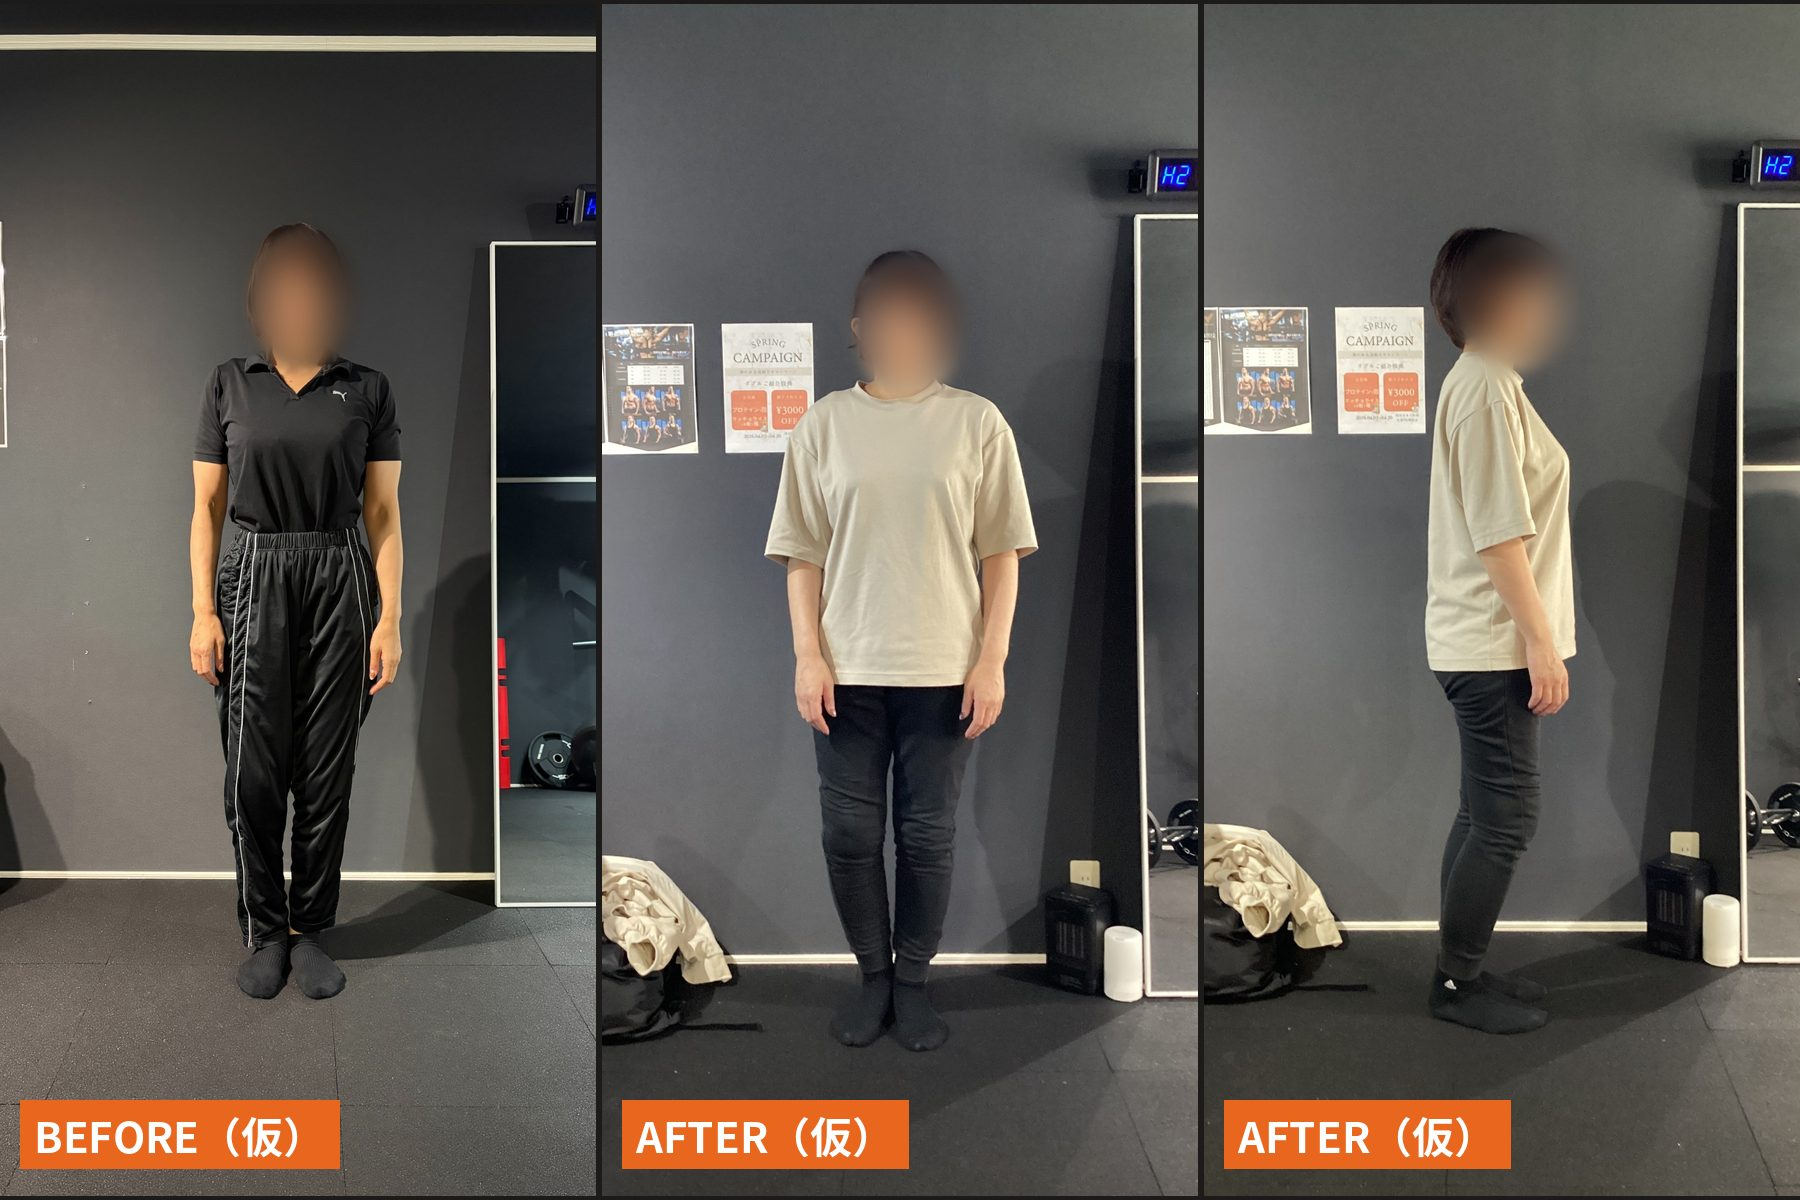
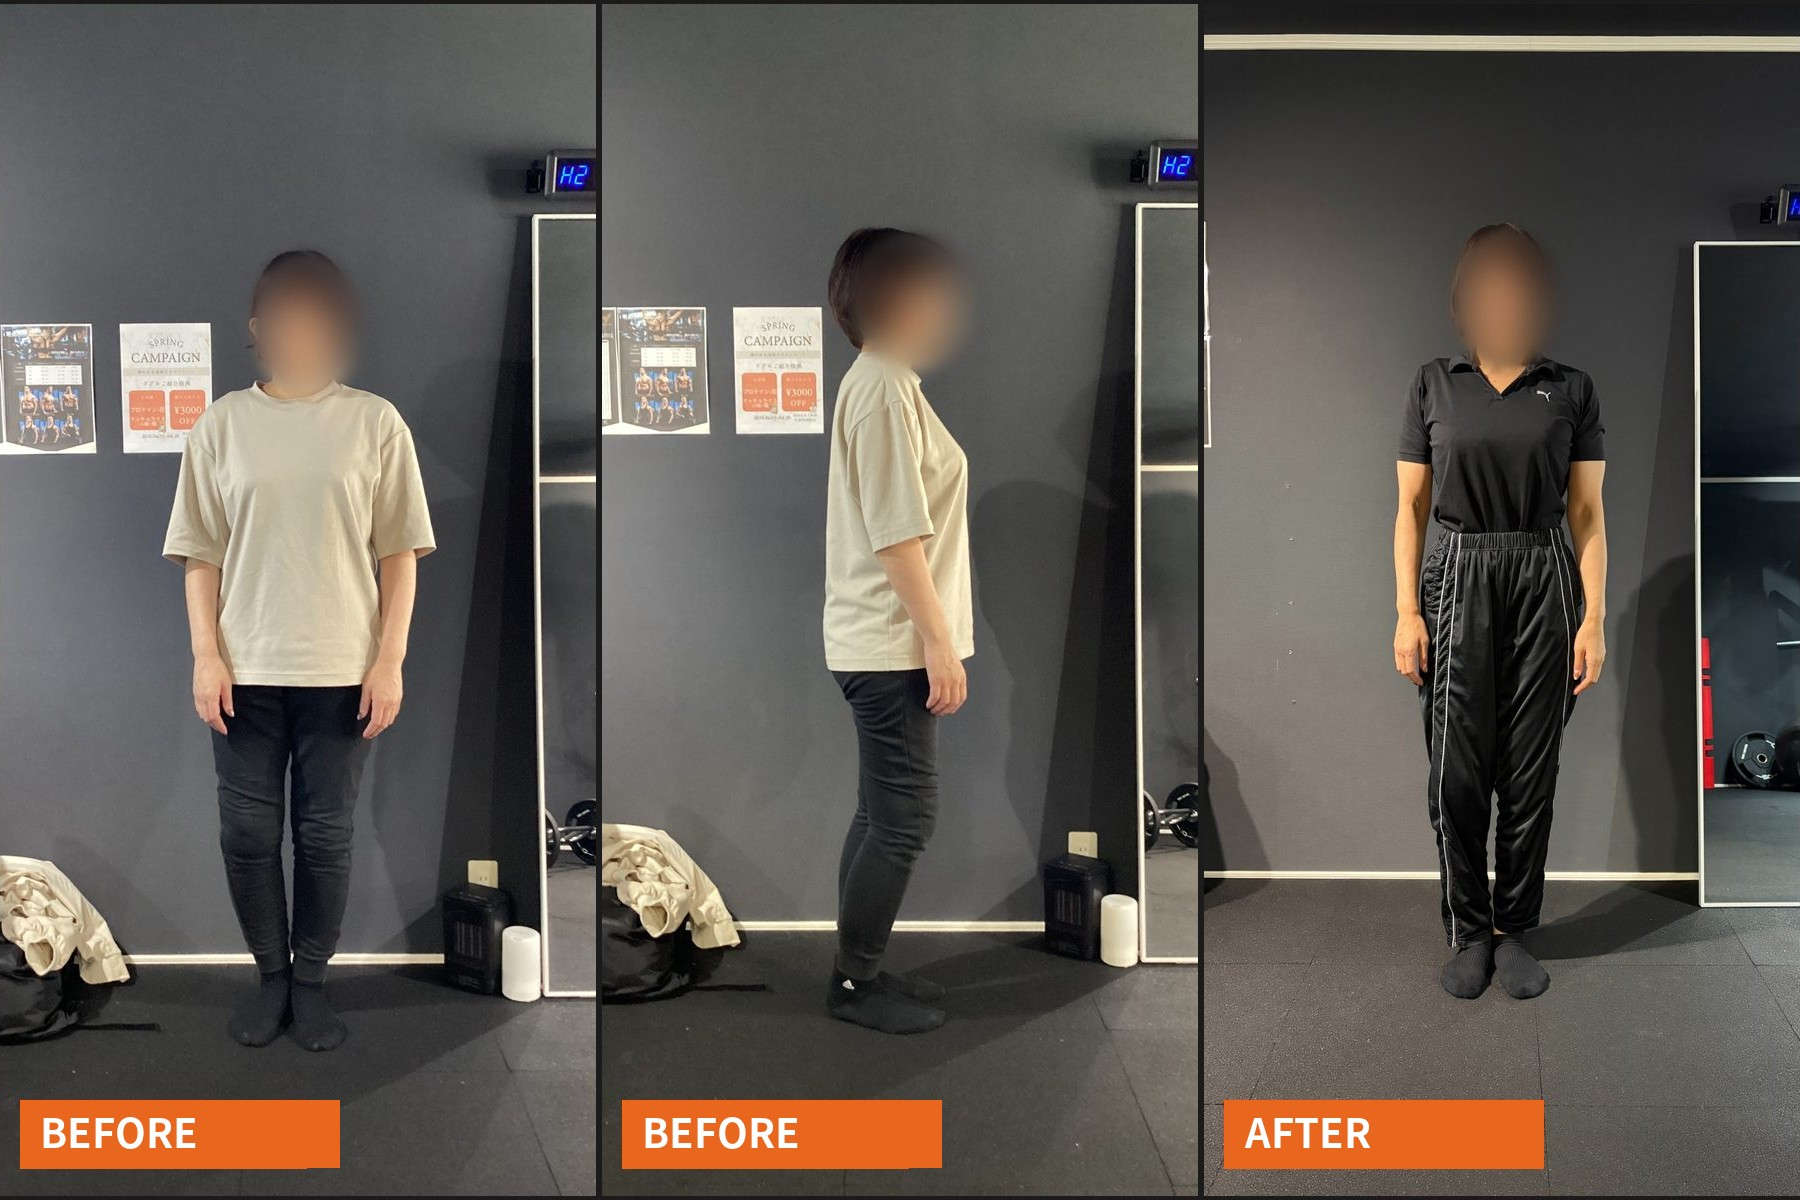
VISTARISE: 口コミの「続きを読む」を控えめな文字リンクに、40代女性のビフォー（白服2枚）・アフター（黒服1枚）を修正

diff --git a/vistarise/index.html b/vistarise/index.html
@@ -18,7 +18,7 @@
 <div class="card cut"><span class="tag">案</span><div class="en">VALUE</div><h3>私たちが大切にしていること</h3><ul><li>まずは、身体の機能を整えることから</li><li>やり方にこだわりすぎず、あなたに合った方法で</li><li>トレーナー自身が実践し、結果で示します</li></ul></div>
 </div></div></div></section>
 <section id="change"><div class="wrap"><div class="en">BEFORE / AFTER</div><h2>お客様の変化</h2><div class="confirm-note" data-n="4"></div><div class="confirm-note" data-n="35"></div><div class="g4 sc case">
-<div class="card cut" style="background:#fff"><div class="im"><img src="img/ba-acl-40f.jpg" alt="40代女性 ビフォーアフター（正面・正面・横）"></div><span class="tag">40代女性</span><h3>膝4回の手術、諦めからの挑戦｜40代女性</h3><p><b>毎日の洋服選びを楽しめる身体へ。</b><br>前十字靭帯（ACL）の手術を4度経験し、小走りもできない状態からスタート。膝関節の機能回復とトレーニング復帰をサポートしながら、食事の質を整えて「食べて痩せる」を実践しました。</p><p>・小走りができるようになった<br>・階段の上り下りが軽快に<br>・体重−6.1kg、体脂肪率32.0%→24.5%（筋肉量は維持）</p><p class="meta">期間：5ヶ月（週2回）</p><p class="note">※効果には個人差があります</p></div>
+<div class="card cut" style="background:#fff"><div class="im"><img src="img/ba-acl-40f.jpg?v=20261116" alt="40代女性 ビフォー（白い服・正面と横）とアフター（黒い服・正面）"></div><span class="tag">40代女性</span><h3>膝4回の手術、諦めからの挑戦｜40代女性</h3><p><b>毎日の洋服選びを楽しめる身体へ。</b><br>前十字靭帯（ACL）の手術を4度経験し、小走りもできない状態からスタート。膝関節の機能回復とトレーニング復帰をサポートしながら、食事の質を整えて「食べて痩せる」を実践しました。</p><p>・小走りができるようになった<br>・階段の上り下りが軽快に<br>・体重−6.1kg、体脂肪率32.0%→24.5%（筋肉量は維持）</p><p class="meta">期間：5ヶ月（週2回）</p><p class="note">※効果には個人差があります</p></div>
 <div class="card cut" style="background:#fff"><div class="im">写真準備中</div><span class="tag">T.K様</span><h3>週1・2ヶ月で−5.6kg</h3><p>体重−5.6kg、体脂肪率−4.3%。</p><p class="meta">期間：2ヶ月（週1回）</p><p class="note">※効果には個人差があります</p></div>
 <div class="card cut" style="background:#fff"><div class="im"><img src="img/s3.jpg" alt="S.W様 インタビュー" style="object-position:50% 0%"></div><span class="tag">30代男性・S.W様</span><h3><span class="nw">15年間の</span><span class="nw">慢性腰痛を克服！</span><br><span class="nw">痛みに怯える日々から</span><span class="nw">「攻めのボディメイク」へ</span></h3><p class="who">（30代男性・S.W様）</p><p>15年以上続く腰痛と繰り返すぎっくり腰に悩まれていましたが、徹底的な身体評価で根本原因にアプローチ。半年間の二人三脚のトレーニングを経て、「多忙でも腰が痛まない身体」を手に入れました。現在は痛みの不安から解放され、将来のための筋力アップに意欲的に取り組まれています。</p><p class="meta">期間：半年（週1回）</p><p class="note">※効果には個人差があります</p></div>
 <div class="card cut" style="background:#fff"><div class="im">写真準備中</div><span class="tag">K.C様</span><h3>猫背・巻き肩の改善</h3><div class="confirm-note" data-n="26"></div><p class="meta">期間：2ヶ月（週1回）</p><p class="note">※効果には個人差があります</p></div></div><div class="bam"><h3>ボディメイク・肉体改革コースの変化</h3><div class="g3 sc ba bam-g"><div class="card cut zoom"><div class="im"><img src="img/ba-recomp-17pct-v2.jpg" alt="リコンプ実現！体脂肪率-17% ビフォーアフター"></div></div><div class="card cut zoom"><div class="im"><img src="img/ba-physique-6pct-v2.jpg" alt="フィジーク優勝へ！体脂肪率6% ビフォーアフター"></div></div><div class="card cut zoom"><div class="im"><img src="img/ba-recomp-muscle39.jpg" alt="リコンプ実現！筋肉量3.9kg増 ビフォーアフター"></div></div></div><p class="note">※効果には個人差があります　<a href="bodymake.html#ba">詳しくはボディメイク・肉体改革コースへ →</a></p><div class="confirm-note" data-n="40"></div></div>

diff --git a/vistarise/review.js b/vistarise/review.js
@@ -4,7 +4,7 @@
     [1, "index.html", "トップ／ファーストビュー", "写真を高画質の指導風景（姿勢チェック）に差し替えました。ご希望の「サイドレイズを指導している画像」が届きしだい差し替えます。写真をお送りいただけますか？"],
     [31, "index.html", "トップ／VISTARISEの理念", "11/3に「VVMをもう少し外部向けにマイルドな表現に」とのことでした。外部向けに書き直した案をこちらで作ってよいですか？変えたくない言葉があれば教えてください。"],
     [4, "index.html", "トップ／お客様の変化（写真）", "写真枠は横3:2です。T.K様・K.C様のビフォーアフターの元写真（ACLの40代女性は11/15に入れました）をいただけますか？こちらでこの比率に作ります。"],
-    [35, "index.html", "トップ／お客様の変化（40代女性・ACL）", "女性の立ち姿3枚をACLの40代女性の写真として入れました。11/3に「女性顔出しのものはまだ使えないので、切り取るか、削除して使ってもらえると！」とのことだったので、顔はぼかしています。写真の時計は時刻だけで日付がないため、ビフォー（黒のポロシャツ）とアフター（ベージュのTシャツ・正面と横）の並びは仮です。この事例の写真で合っていますか？どれがビフォーで、どれがアフターですか？"],
+    [35, "index.html", "トップ／お客様の変化（40代女性・ACL）", "女性の立ち姿3枚をACLの40代女性の写真として入れました。11/3に「女性顔出しのものはまだ使えないので、切り取るか、削除して使ってもらえると！」とのことだったので、顔はぼかしています。写真の時計は時刻だけで日付がないため、ビフォー（黒のポロシャツ）とアフター（ベージュのTシャツ・正面と横）の並びは仮です。この事例の写真で合っていますか？どれがビフォーで、どれがアフターですか？（11/16 本保さんより「白服2枚がビフォー、黒服1枚がアフター」。左からビフォー（白・正面）、ビフォー（白・横）、アフター（黒・正面）に並べ替え、表示も直しました）"],
     [41, "index.html", "トップ／理念（やわらかい表現の案）", "確認31を受けて、こちらで外部向けにやわらかく言い換えた【案】です（オレンジの点線の3枚）。上の3枚はいただいた原文のままです。どちらを使うか、変えたくない言葉があれば教えてください。"],
     [26, "index.html", "トップ／お客様の変化（K.C様）", "「ここの内容はカットでよいかも」を受けて、紹介文の欄を外しました。K.C様の事例ごと外す場合は教えてください。"],
     [40, "index.html", "トップ／お客様の変化（ボディメイク）", "ボディメイクのビフォーアフター3枚を、トップにも小さく載せました（第2弾では競技系の事例はボディメイクページへ、とのことでした）。トップに載せてよいですか？"],

diff --git a/vistarise/style.css b/vistarise/style.css
@@ -301,3 +301,9 @@ header nav a,header nav.open a{white-space:nowrap}
 .pl>div:last-child{position:static;min-width:0}
 @media(max-width:767px){#reviews{align-items:flex-start}}
 @media(min-width:768px) and (max-width:1023px){.pl{grid-template-columns:minmax(0,1fr)}.pl>div:first-child{height:320px!important}}
+/* 11/16 「続きを読む」：黒枠をやめ、目立たない文字リンクに */
+.has-rvm .rvm,#reviews .rv .rvm{border:0;background:none;padding:2px 0;margin-top:6px;font:500 12.5px "Zen Kaku Gothic New",sans-serif;color:#6f6a62;text-decoration:underline;text-decoration-color:#CCC5B9;text-underline-offset:4px;letter-spacing:.04em}
+.has-rvm .rvm::after{content:"";display:inline-block;width:5px;height:5px;margin-left:7px;border-right:1.5px solid currentColor;border-bottom:1.5px solid currentColor;transform:translateY(-3px) rotate(45deg);transition:transform .2s}
+.rv-open .rvm::after{transform:translateY(0) rotate(-135deg)}
+.has-rvm .rvm:hover{color:var(--gd);text-decoration-color:currentColor}
+.has-rvm .rvm:focus-visible{outline:2px solid var(--g);outline-offset:3px}
